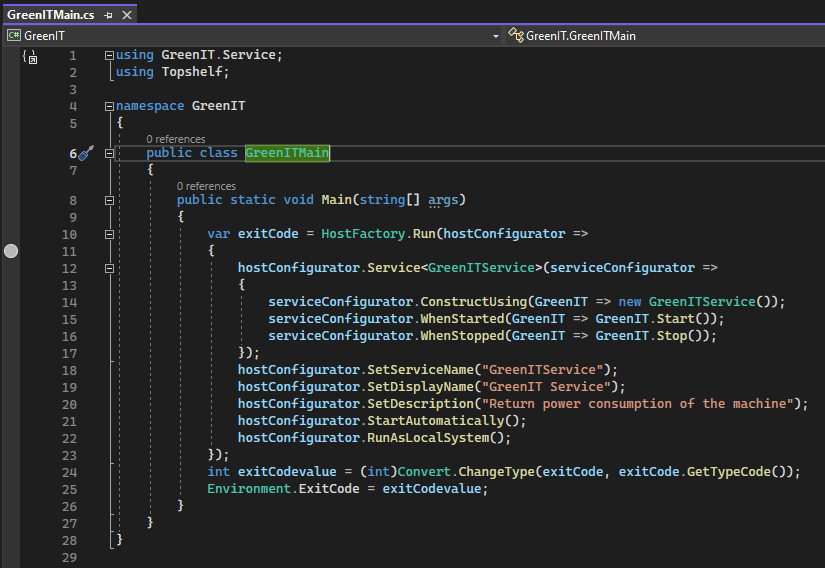
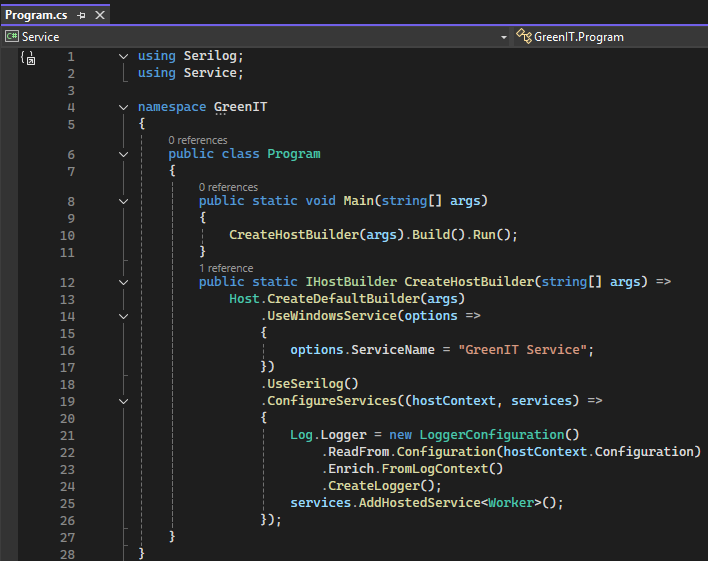
feat(greenit): add doc for v2.0

diff --git a/english/15.GreenIT/02.Agent/Agent-service-for-developpers.md b/english/15.GreenIT/02.Agent/Agent-service-for-developpers.md
@@ -8,7 +8,7 @@ This documentation provides an overview of how the GreenIT service works.
 
 The project was developed using Visual Studio Community 2022 version 17.5.0 on a Windows 10 Pro x64 (22H2) distribution.
 
-> _IMPORTANT NOTE: During installation, make sure to check ".NET desktop development" and ".NET framework 6.0" to avoid any issues when working on the project._
+> _IMPORTANT NOTE: During installation, make sure to check ".NET desktop development" and ".NET framework 8" to avoid any issues when working on the project._
 
 ## Structure
 
@@ -22,32 +22,30 @@ The project is organized as follows:
 
 The service relies on three important packages to function properly:
 
-- ini-parser : Used for reading ini files.
+- Serilog : Used for generate clean formated logs.
 
-- LibreHardwareMonitorLibCore : Enables the collection of consumption data.
+- LibreHardwareMonitorLib : Enables the collection of consumption data.
 
-- TopShelf : Allows the project to run as a service.
+- Microsoft Hosting Extensions : Allows the project to run as a service.
 
 ## Main content
 
 Two files are important to understand how the service works :
 
-- GreenITMain.cs
-- GreenITService.cs
+- Program.cs
+- Worker.cs
 
-### GreenITMain.cs
+### Program.cs
 
-This file creates the Windows service and defines its settings, such as the service name, description, and run method.
+This file creates the Windows service and defines its settings, such as the service name and running method.
 
 <p align="center">
   <img src="../../../img/agent/greenit/service_mainFile_1.png" alt="Service main file"/>
 </p>
 
-### GreenITService.cs
+### Worker.cs
 
 This file is the main component of the service and contains all the functions used by the service.
-
-### Variables definition
 
 <p align="center">
   <img src="../../../img/agent/greenit/service_serviceFile_1.png" alt="Service service file"/>
@@ -57,45 +55,8 @@ This file is the main component of the service and contains all the functions us
   <img src="../../../img/agent/greenit/service_serviceFile_2.png" alt="Service service file"/>
 </p>
 
-Service was made to be easily upgradeable and maintainable in the future.
-
-Variables are divided into three parts :
-
-- Engine signals : Control each engine.
-
-- Background workers : Part of the different engines, used to run the engines in the background.
-
-- Other settings : Used by the workers, such as the service installation path and destination data file.
-
-### Engine organization
-
-The service operates using three main components:
-
-- Service engine : Monitors the data file.
-
-- Backup engine : Creates a backup of the data file at specified intervals.
-
-- OpenHardwareMonitor engine : Calculates and formats the data.
-
-Functions are organized chronologically in the file :
-
-- Start function
-- Service engine
-- Backup engine
-- OpenHardwareMonitor engine
-- Stop function
-- Utilities functions
-
-<p align="center">
-  <img src="../../../img/agent/greenit/service_serviceFile_3.png" alt="Service service file"/>
-</p>
-
-### OpenHardwareMonitor engine
-
-The OpenHardwareMonitor engine retrieves the consumption data collected from the OpenHardwareMonitorModel.cs file :
-
-<p align="center">
-  <img src="../../../img/agent/greenit/service_openHardwareMonitor_1.png" alt="Service OpenHardwareMonitorModel file"/>
-</p>
-
-It calculates the service uptime and reads/writes data in JSON format to the data file.
+It was made to be easily upgradeable and maintainable in the future:
+- FilesCheck is made to check the files if it exist before trying to write data
+- GetData, ApplyNewConsumption, WriteData and BackupData is used to do the entire work like get the data, update the data and write the new data into the data file and backup file.
+- GetConsumption is the main function that doing all the calculation.
+- SerializeData is a utility function as well as UpdateVisitor.

diff --git a/english/15.GreenIT/01.Server/Server-installation-and-configuration.md b/english/15.GreenIT/01.Server/Server-installation-and-configuration.md
@@ -63,10 +63,6 @@ To access the configuration page, go to `Management >> GreenIT`:
   <img src="../../../img/server/greenit/configuration_1.png"/>
 </p>
 
-The below screenshot shows the configuration page. There are two sections:
-- Interface's settings: dashboard configuration
-- API configuration: used to retrieve electricity prices
-
 <p align="center">
   <img src="../../../img/server/greenit/configuration_2.png"/>
 </p>
@@ -85,9 +81,8 @@ Last two items are formatting options :
 - **Cost format** : currency symbol to use (€, $, £, etc.)
 - **Uptime format** : format to use for uptime values
 
-#### API configuration
-- **API key** : If you subscribed to the OCS-Inventory GreenIT offer, you received an API key by email. Enter it here.
-- **Consumption type** : Based on the tresholds defined by the electricity provider, the price per kWh varies. If you don't know which treshold/segment you are in, leave the default value. If you know the treshold, enter it here to get a more accurate cost approximation.
+And to finish, if you want to make the cost calculation works, you'll need to add the price of the current kilowatt cost :
+- **Kilowatt cost** : Current kilowatt price in your country
 
 ### Crontab
 The GreenIT plugin has two cronjobs that need to be configured for the dashboard to work properly.

diff --git a/english/15.GreenIT/02.Agent/Agent-installation-and-configuration.md b/english/15.GreenIT/02.Agent/Agent-installation-and-configuration.md
@@ -22,29 +22,7 @@ This documentation explains how to install the GreenIT plugin and service on Win
 ### You'll also need to download .NET **AND** ASP .NET runtime version 8.0.19 or upper to make the service working!
 
 
-#### CLI Installation for the version 1.0
-You can also install the service in CLI mode.
-
-Open a terminal and move to the executable folder.
-
-Then you can execute the setup by entering the following command :
-
-`GreenITService_Installer.exe`
-
-It will launch the setup as usual. The `/silent` argument can be added to start the setup in silent mode.
-
-> ***IMPORTANT NOTE**: All of the below arguments must be provided when using the /silent argument !*
-
-Here are the 3 arguments you will need to add when using silent mode:
-- /collectPeriod
-- /uploadPeriod
-- /savesPeriod
-
-> ***Example**: `GreenITService_Installer.exe /silent /collectPeriod=1 /uploadPeriod=0 /savesPeriod=1`*
-
-> ***NOTE**: More details about arguments [here](#service-configuration)*
-
-#### CLI Installation for the version 2.0
+#### CLI Installation
 You can also install the service in CLI mode.
 
 Open a terminal and move to the executable folder.
